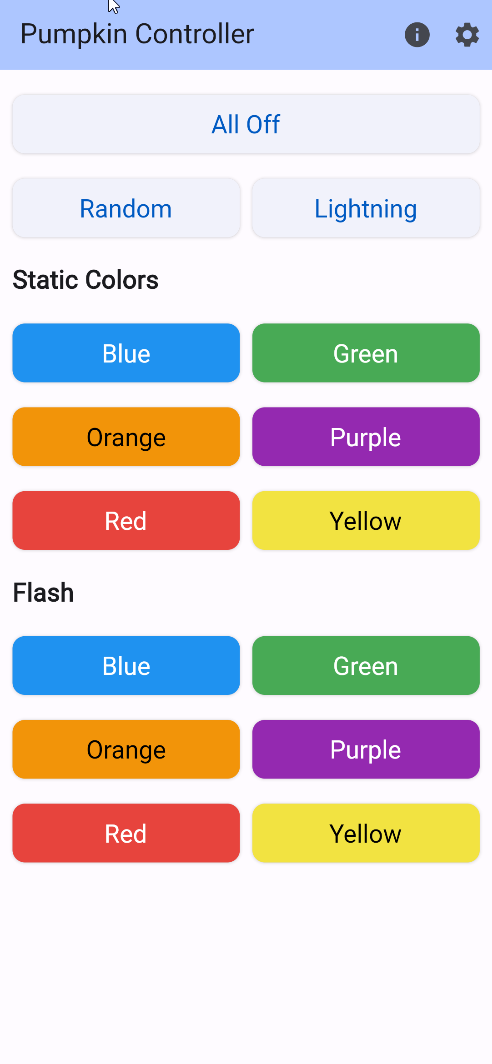
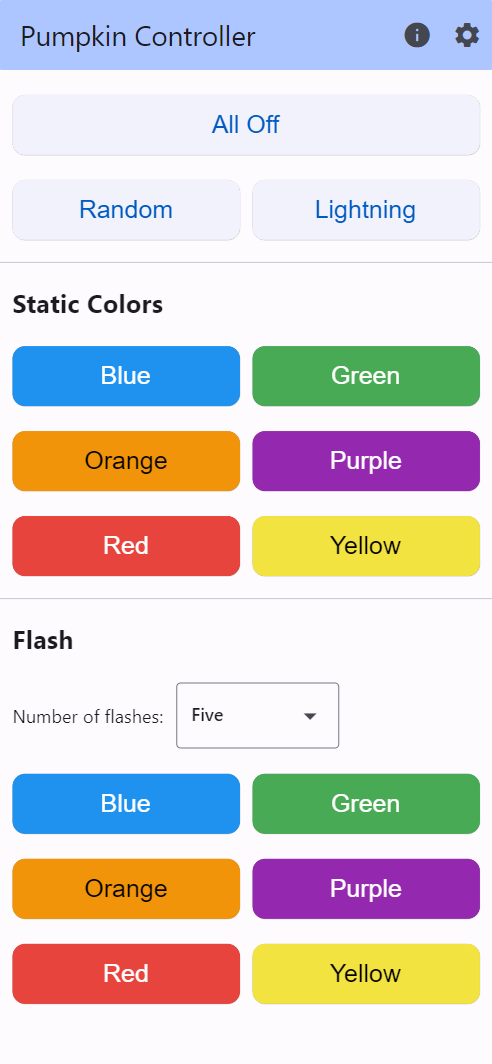
updated screenshot

diff --git a/lib/pages/home_page.dart b/lib/pages/home_page.dart
@@ -245,7 +245,7 @@ class _PumpkinControllerHomeState extends State<PumpkinControllerHome> {
                           _expandedButton(
                               context: context,
                               btnText: 'Blue',
-                              cmd: 'flash:0:${selectedCount?.count}',
+                              cmd: 'flash:0:${selectedCount?.count.toString()}',
                               btnColor: Colors.blue,
                               textColor: Colors.white),
                           SizedBox(width: boxWidth),
